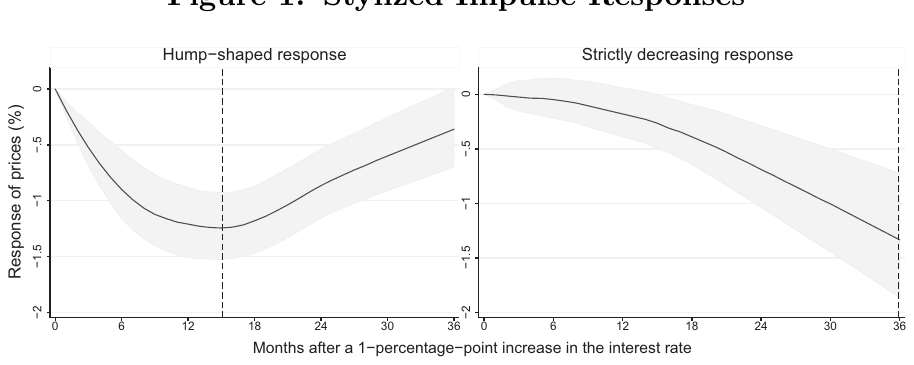
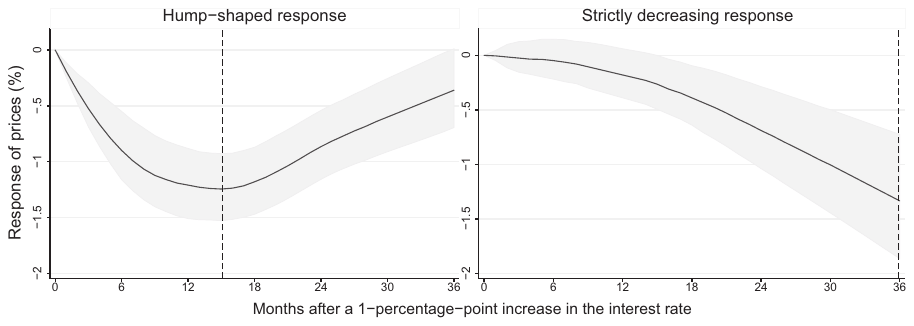
Recrop two figures that had caption text baked into the artwork
Both were found by GPT's audit 07 and both are real.

/lags/ figure 1 is a regression I introduced. The original crop cut the plot off below
-1.5, losing the x-axis and leaving the transmission-lag markers hanging in space. Fixing
that, I moved the top edge as well as the bottom, and took in the lower half of "Figure 1.
Stylized Impulse Responses", sliced horizontally through the letters. The page renders that
caption itself, so it was duplicated as well as broken. The crop now starts below it, at
the panel titles.

/migrant/ figure A2 carried a clipped line of its own note along the bottom, reading "s:
The length of each box represents the interquartile range (P25-P75), and the dividing line
inside". The complete note is already under the figure as a fig-note. Trimmed at the gutter
above it, by ink profile rather than a guessed offset, so the axis label is kept.

Both had been flagged by the repo's own tools/audit_figure_crops.py all along. The memo
says no check saw them, which is not quite right: the screen saw them and is report-only,
and they were sitting among 126 candidates of which most are false. That is an argument for
the provenance manifest the memo recommends, which would let artwork be told from adjacent
caption text mechanically instead of by eye.

Also retires the stale continuity key crisis_ews:950cf20798.

diff --git a/lags/paper/index.html b/lags/paper/index.html
@@ -25,7 +25,7 @@
 <meta property="og:url" content="https://meta-analysis.cz/lags/paper/" />
 <meta property="og:image" content="https://meta-analysis.cz/lags/paper/figures/fig1.png" />
 <meta property="og:image:width" content="914" />
-<meta property="og:image:height" content="365" />
+<meta property="og:image:height" content="326" />
 <meta property="og:image:alt" content="Figure 1. Stylized Impulse Responses." />
 <script type="application/ld+json">
 {
